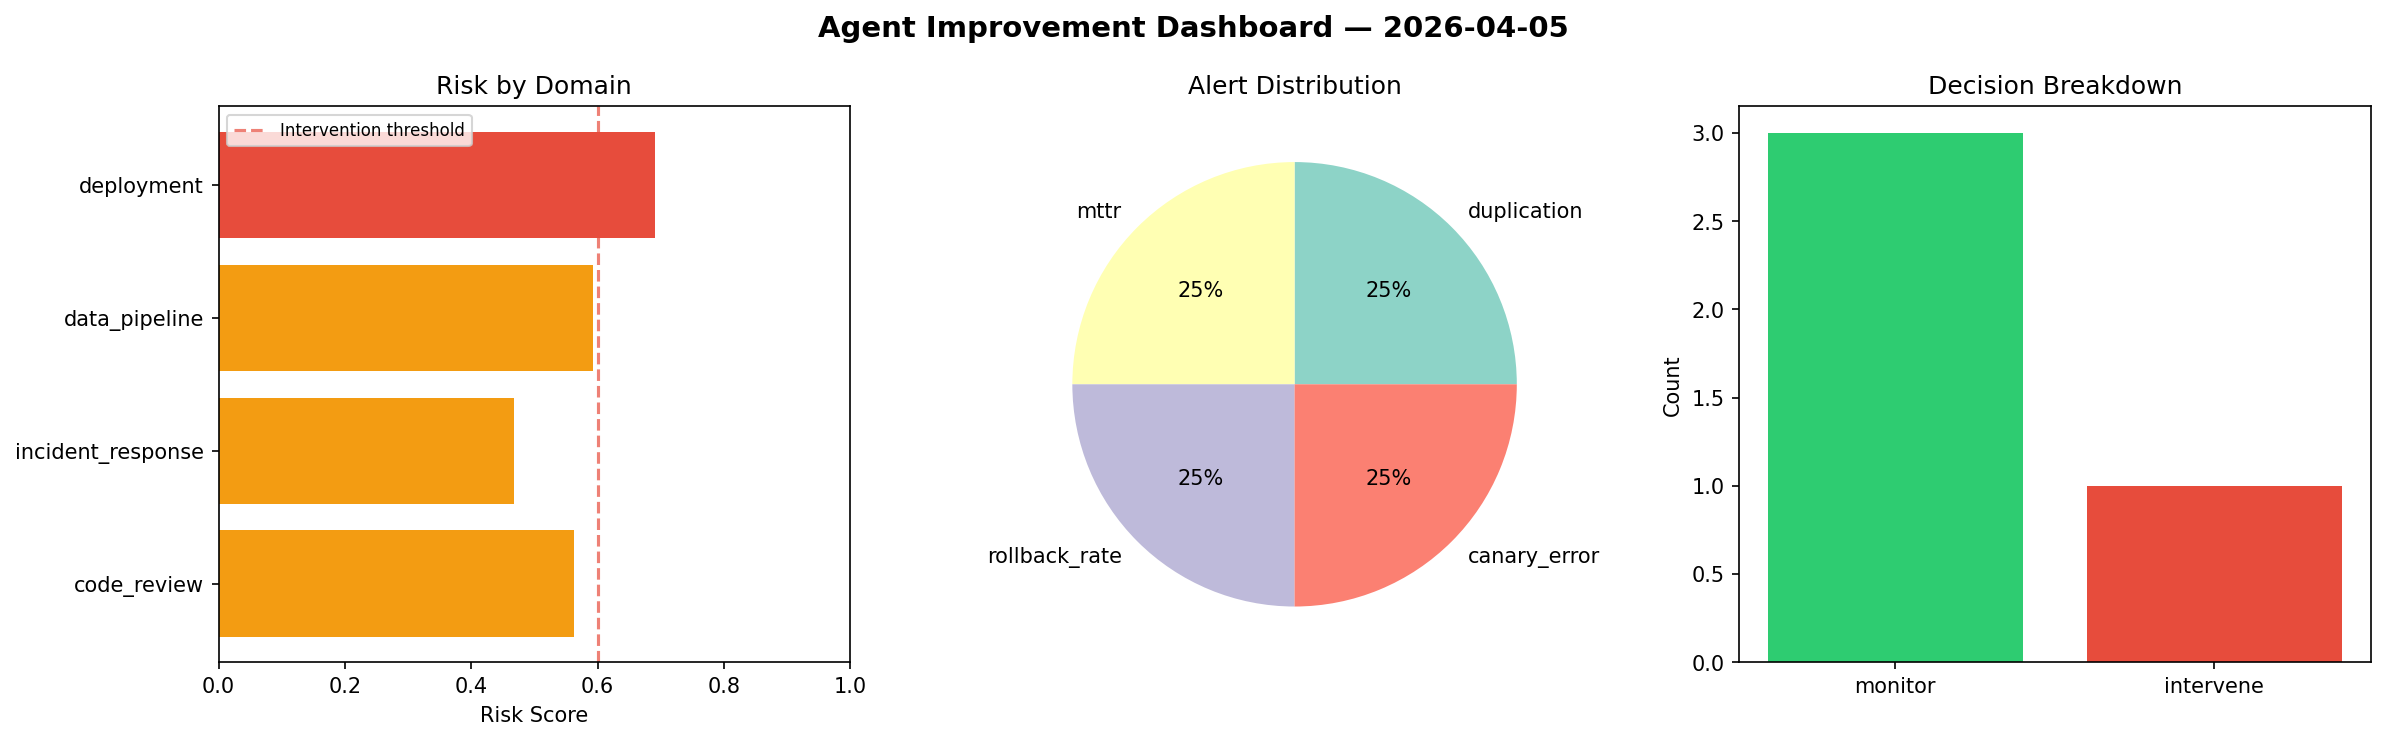
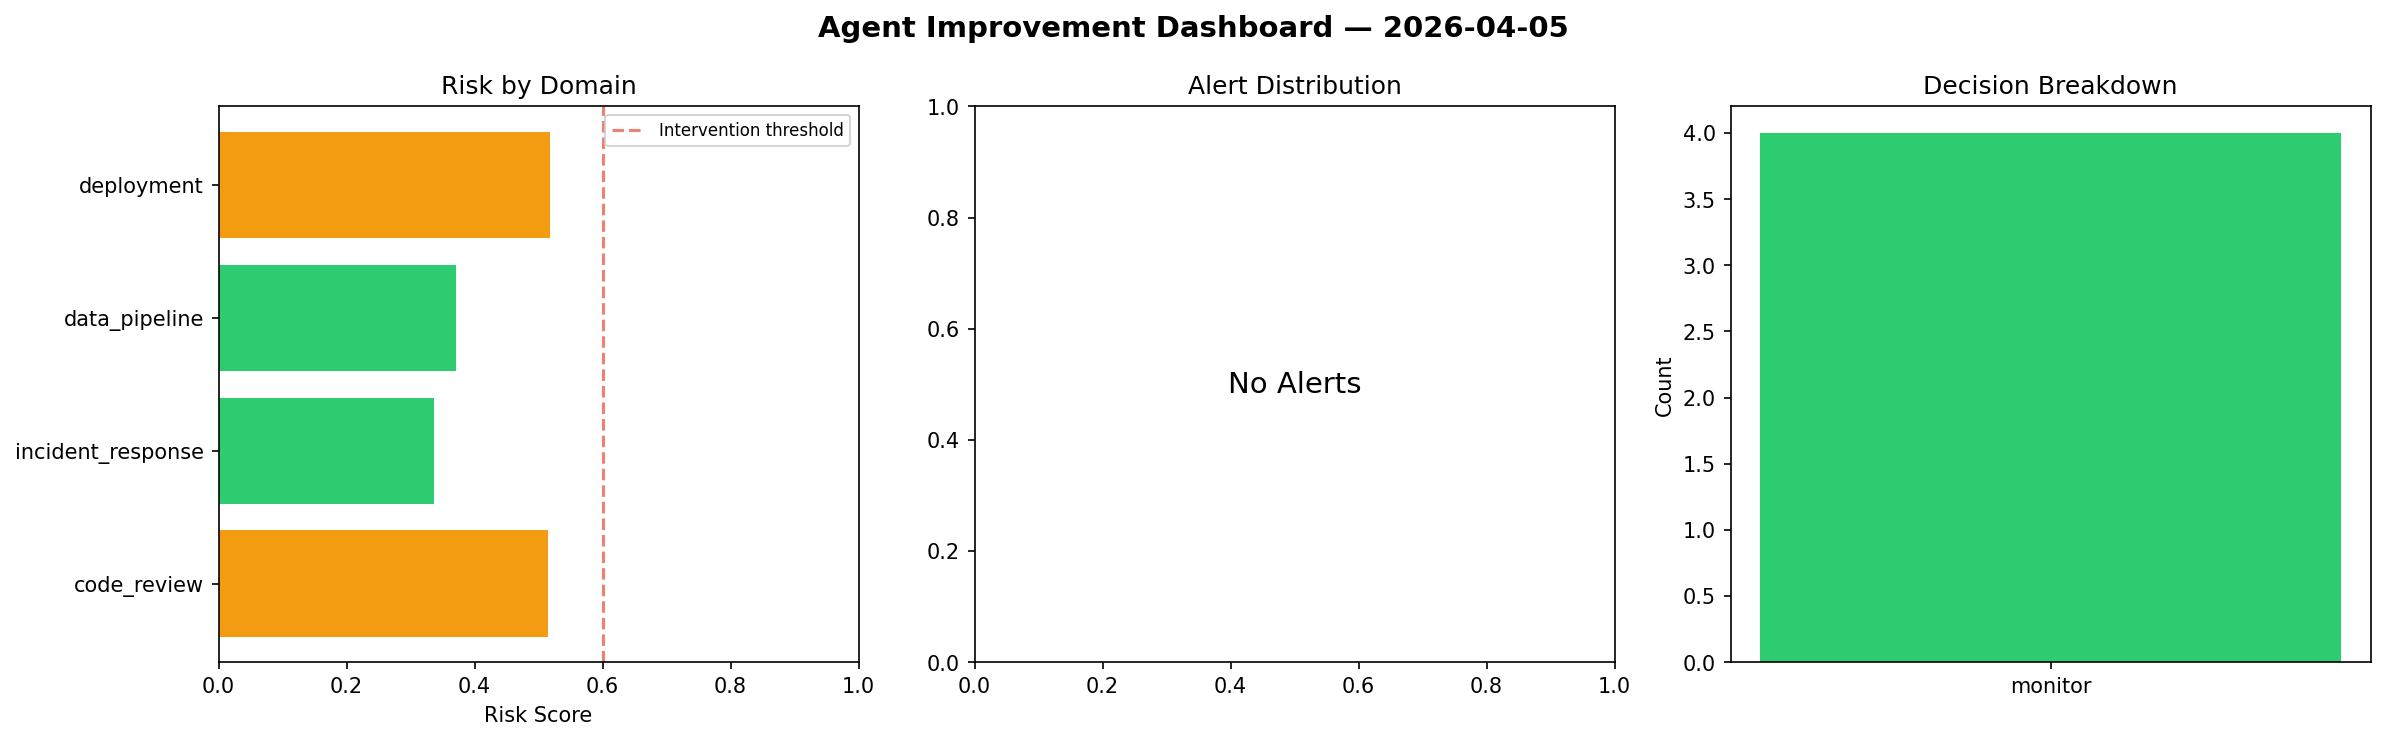
agent-improvement: daily cycle 2026-04-05T14:54

diff --git a/logs/2026-04-05.md b/logs/2026-04-05.md
@@ -1,6 +1,6 @@
 # Agent Improvement Report — 2026-04-05
 
-**Cycle ID:** `c1030e87` | **Avg Risk:** 0.5784 | **Interventions:** 1/4
+**Cycle ID:** `7dfadc0c` | **Avg Risk:** 0.435 | **Interventions:** 0/4
 
 ![Dashboard](2026-04-05_dashboard.png)
 
@@ -10,18 +10,18 @@
 
 | Domain | Risk Score | Decision | Alerts |
 |--------|-----------|----------|--------|
-| code_review | 0.562 | monitor | duplication |
-| incident_response | 0.4684 | monitor | mttr |
-| data_pipeline | 0.5926 | monitor | none |
-| deployment | 0.6906 | intervene | rollback_rate, canary_error |
+| code_review | 0.514 | monitor | none |
+| incident_response | 0.3362 | monitor | none |
+| data_pipeline | 0.3715 | monitor | none |
+| deployment | 0.5185 | monitor | none |
 
 ## Delta vs Yesterday
 
 | Domain | Today | Yesterday | Change |
 |--------|-------|-----------|--------|
-| code_review | 0.562 | 0.4989 | 📈 12.6% |
-| incident_response | 0.4684 | 0.368 | 📈 27.3% |
-| data_pipeline | 0.5926 | 0.5464 | 📈 8.5% |
-| deployment | 0.6906 | 0.6484 | 📈 6.5% |
+| code_review | 0.514 | 0.4989 | 📈 3.0% |
+| incident_response | 0.3362 | 0.368 | 📉 -8.6% |
+| data_pipeline | 0.3715 | 0.5464 | 📉 -32.0% |
+| deployment | 0.5185 | 0.6484 | 📉 -20.0% |
 
 **Refinement:** `{'adjustment': 'tighten_thresholds', 'trend': 'degrading', 'window': 4}`
